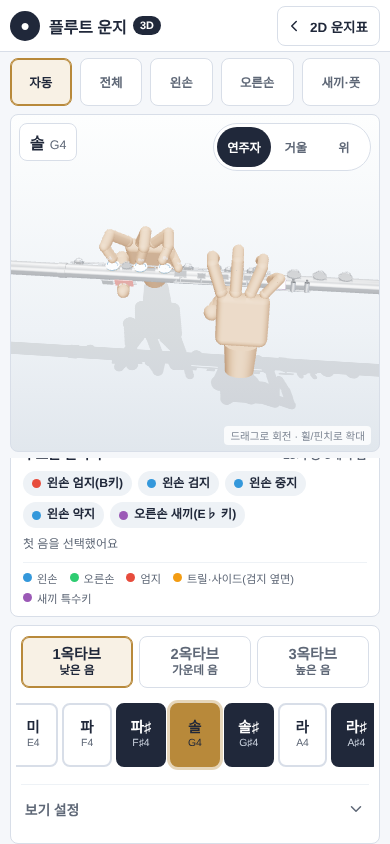
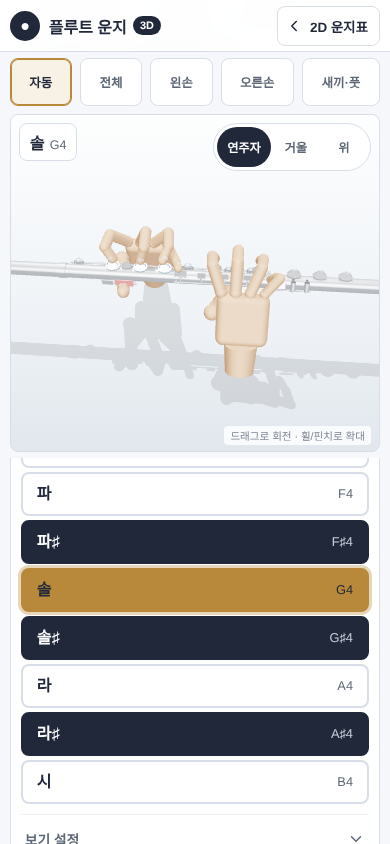
Stack the 3D panel's note buttons in one vertical column
The right-hand panel showed the octave's 12-13 note buttons as a single
horizontally scrolling row. They are now one vertical column, low to
high from top to bottom, one full-width button per note.

- .piano is a column flexbox; .note-btn is a full-width row with the
  Korean solfege name on the left and the English name on the right,
  min-height 44px.
- The list does not scroll on its own: the page is the only scroll
  area. That removes centerActiveKey(), its ResizeObserver and the
  overflow/scroll-padding tricks the horizontal row needed.
- Desktop grid: the third row is 1fr, so a panel that is taller than the
  left column no longer pushes the 3D view and the finger summary apart.
- docs/3d-view.md and QA screenshots 08/09 are updated.

Verified: 805 layout checks over 11 viewports (320-1440 px wide, incl.
short windows and a landscape phone), the 392 shortcut checks, axe (no
new violations) and qa/check-3d-data.mjs.

Claude-Session: https://claude.ai/code/session_01AGBZvwWJVfQoH8o65SEwUy

Changed region(s): [[0.0308, 0.5237, 0.9846, 1.0], [0.8923, 0.9858, 0.9231, 1.0], [0.8, 0.5237, 0.8308, 0.5545]]

diff --git a/3d.html b/3d.html
@@ -152,7 +152,7 @@ main#app-main{width:min(100%,1280px);margin:0 auto;padding:8px 10px 24px;display
 .legend span{display:inline-flex;align-items:center;gap:5px}
 .legend i{width:9px;height:9px;border-radius:50%;display:inline-block}
 
-/* 오른쪽 패널 — 한 장의 카드: ① 옥타브 고르기 ② 그 옥타브 건반 한 줄(가로 배열) ③ 접어 둔 「보기 설정」 */
+/* 오른쪽 패널 — 한 장의 카드: ① 옥타브 고르기 ② 그 옥타브 계이름 버튼(세로 1열) ③ 접어 둔 「보기 설정」 */
 #side-panel{padding:10px;background:var(--surface);border:1px solid var(--line);border-radius:var(--radius)}
 #selector3d{display:grid;gap:10px;width:100%;max-width:480px;margin:0 auto}
 .octave-switch{display:grid;grid-template-columns:repeat(3,minmax(0,1fr));gap:6px}
@@ -163,22 +163,18 @@ main#app-main{width:min(100%,1280px);margin:0 auto;padding:8px 10px 24px;display
 .octave-btn b{font-size:.92rem;font-weight:800}
 .octave-btn span{font-size:.72rem;font-weight:650}
 .octave-btn[aria-pressed="true"]{color:var(--ink);border-color:var(--accent);background:#f8f1e5;box-shadow:inset 0 0 0 1px var(--accent)}
-/* 건반: 낮은 음 → 높은 음 순서로 한 줄(1열 횡대). 흰 칸 = 온음, 검은 칸 = 반음(♯).
-   12~13개를 한 화면에 다 넣으면 칸이 26px쯤으로 좁아져 누르기 어려우므로, 칸 폭은 터치하기 좋게(44px 이상) 두고 옆으로 밀어 본다.
-   한 화면에 6칸 반이 보이도록 폭을 잡아서 일곱 번째 칸이 반쯤 잘려 보이게 — "더 있다"는 표시. 고른 음은 centerActiveKey()가 늘 가운데로 가져온다.
-   padding은 고른 칸의 빛(3px)·포커스 링(3px+2px)이 스크롤 영역에 잘리지 않게 하는 여백이고, 좌우 -5px 여백으로 위쪽 옥타브 버튼과 가장자리를 맞춘다. */
-.piano{
-  position:relative;display:flex;gap:4px;margin:0 -5px;padding:5px 5px 7px;scroll-padding-inline:10px;
-  overflow-x:auto;overscroll-behavior-x:contain;scrollbar-width:thin;scrollbar-color:#b9c1cd transparent
-}
+/* 계이름 버튼: 낮은 음 → 높은 음 순서로 세로 한 줄(1열 종대). 흰 버튼 = 온음, 검은 버튼 = 반음(♯).
+   버튼은 손가락으로 누르기 좋게 높이 44px 이상, 폭은 패널 가득. 12~13개를 쌓은 목록은 패널을 길게 만들 뿐, 목록 안에서 따로 스크롤하지 않는다
+   (스크롤은 페이지 하나뿐이라 휠·터치가 헷갈리지 않고, 모바일에서는 3D 화면이 위에 고정된 채 목록이 그 아래로 지나간다). */
+.piano{display:flex;flex-direction:column;gap:4px}
 .piano[hidden]{display:none}
 .note-btn{
-  flex:0 0 clamp(44px,calc((100% - 24px) / 6.5),72px);min-height:64px;padding:3px 2px;border:2px solid var(--line);border-radius:var(--radius);
-  background:#fff;color:var(--ink);cursor:pointer;display:flex;flex-direction:column;align-items:center;justify-content:center;line-height:1.05
+  min-height:44px;padding:0 14px;border:2px solid var(--line);border-radius:var(--radius);
+  background:#fff;color:var(--ink);cursor:pointer;display:flex;align-items:center;justify-content:space-between;gap:10px;line-height:1.1;text-align:left
 }
 .note-btn.black{background:var(--ink);border-color:var(--ink);color:#fff}
-.note-btn .nb-ko{font-size:.91rem;font-weight:850}
-.note-btn .nb-en{font-size:.65rem;color:var(--muted);margin-top:3px;white-space:nowrap}
+.note-btn .nb-ko{font-size:1rem;font-weight:850}
+.note-btn .nb-en{font-size:.8rem;color:var(--muted);white-space:nowrap}
 .note-btn.black .nb-en{color:#c7cfdb}
 .note-btn.active,.note-btn.black.active{background:var(--accent);border-color:var(--accent);color:var(--ink);box-shadow:0 0 0 3px rgba(184,137,58,.35)}
 .note-btn.active .nb-en,.note-btn.black.active .nb-en{color:inherit}
@@ -220,8 +216,9 @@ footer{padding:6px 12px 22px;text-align:center;color:#7e8794;font-size:.72rem;li
 }
 @media (min-width:1024px){
   #app-topbar{padding:0 max(20px,calc((100vw - 1240px)/2))}
+  /* 오른쪽 패널(세로 목록)이 왼쪽 열보다 길어도, 남는 높이는 맨 아래 줄(1fr)이 받는다 → 3D 화면과 손가락 요약 사이가 벌어지지 않는다 */
   main#app-main{
-    display:grid;grid-template-columns:minmax(0,1fr) 360px;align-items:start;
+    display:grid;grid-template-columns:minmax(0,1fr) 360px;grid-template-rows:auto auto 1fr;align-items:start;
     grid-template-areas:"summary summary" "viewer panel" "fingers panel"
   }
   #note-info{grid-area:summary}
@@ -1021,9 +1018,8 @@ function renderFingerSummary(ks, on, off, first){
     </div>`;
 }
 
-/* 음 고르기: 옥타브 3칸 + 고른 옥타브의 건반 한 줄만 보여 준다(나머지 둘은 hidden).
-   건반은 낮은 음 → 높은 음 순서로 한 줄에 늘어놓는다(반음 단위, 검은 칸 = ♯). 한 줄이 패널보다 길어서 옆으로 밀어 볼 수 있고,
-   고른 음은 selectNote()가 centerActiveKey()로 늘 가운데에 가져다 놓는다. */
+/* 음 고르기: 옥타브 3칸 + 고른 옥타브의 계이름 버튼 목록만 보여 준다(나머지 둘은 hidden).
+   버튼은 낮은 음 → 높은 음 순서로 세로 한 줄에 쌓는다(반음 단위, 검은 버튼 = ♯). */
 function buildSelector(){
   const octaveSwitch = `<div class="octave-switch" role="group" aria-label="옥타브">${[1, 2, 3].map(oct =>
     `<button class="octave-btn" data-octave="${oct}" aria-pressed="false"><b>${oct}옥타브</b><span>${OCT_LABELS[oct]}</span></button>`).join("")}</div>`;
@@ -1038,29 +1034,11 @@ function buildSelector(){
   $("selector3d").innerHTML = octaveSwitch + pianos;
 }
 
-/* 고른 옥타브의 건반 줄을 펼친다. 다른 옥타브가 새로 펼쳐졌으면 true */
+/* 고른 옥타브의 계이름 버튼 목록만 펼친다 */
 function showOctave(oct){
-  let opened = false;
-  document.querySelectorAll("#selector3d [data-piano]").forEach(piano => {
-    const hide = Number(piano.dataset.piano) !== oct;
-    if (piano.hidden !== hide){ piano.hidden = hide; if (!hide) opened = true; }
-  });
+  document.querySelectorAll("#selector3d [data-piano]").forEach(piano => { piano.hidden = Number(piano.dataset.piano) !== oct; });
   document.querySelectorAll("#selector3d .octave-btn").forEach(button =>
     button.setAttribute("aria-pressed", String(Number(button.dataset.octave) === oct)));
-  return opened;
-}
-
-/* 고른 음(.active)이 건반 줄의 가운데 오도록 줄만 옆으로 민다. scrollIntoView는 페이지까지 움직일 수 있어서 쓰지 않는다.
-   처음 그릴 때·옥타브를 바꿀 때·'동작 줄이기' 설정에서는 애니메이션 없이 바로 옮긴다. */
-function centerActiveKey(instant){
-  const piano = document.querySelector("#selector3d .piano:not([hidden])");
-  const key = piano && piano.querySelector(".note-btn.active");
-  if (!key) return;
-  const room = piano.scrollWidth - piano.clientWidth;
-  if (room <= 0) return;
-  const left = Math.min(room, Math.max(0, key.offsetLeft + key.offsetWidth / 2 - piano.clientWidth / 2));
-  const calm = instant || window.matchMedia("(prefers-reduced-motion: reduce)").matches;
-  piano.scrollTo({ left, behavior: calm ? "auto" : "smooth" });
 }
 
 function stateQuery(){
@@ -1097,8 +1075,7 @@ function selectNote(noteId, opts = {}){
     button.classList.toggle("active", active);
     button.setAttribute("aria-pressed", String(active));
   });
-  const octaveOpened = showOctave(note.oct);
-  centerActiveKey(first || octaveOpened);
+  showOctave(note.oct);
   $("stage-label").innerHTML = `<b>${note.ko}</b>${note.name}${altIndex >= 0 ? ` · ${note.alt[altIndex].name}` : ""}`;
   const link2d = `./?${stateQuery()}&mode=learn`;
   $("back-2d").setAttribute("href", link2d);
@@ -1253,14 +1230,7 @@ function webgl2Available(){
 buildSelector();
 bindUi();
 const start = initialSelection();
-showOctave(noteById(start.id).oct);   // 3D를 불러오는 동안에도 처음부터 맞는 옥타브 건반이 보이게
-if ("ResizeObserver" in window){      // 화면 폭이 바뀌면(기기 회전·창 크기) 칸 폭도 바뀌므로 고른 음을 다시 가운데로
-  let lastWidth = 0;
-  new ResizeObserver(entries => {
-    const width = Math.round(entries[0].contentRect.width);
-    if (width !== lastWidth){ lastWidth = width; centerActiveKey(true); }
-  }).observe($("selector3d"));
-}
+showOctave(noteById(start.id).oct);   // 3D를 불러오는 동안에도 처음부터 맞는 옥타브 계이름 버튼이 보이게
 
 if (!webgl2Available()){
   window.__flute3d.failed = true;

diff --git a/docs/3d-view.md b/docs/3d-view.md
@@ -53,14 +53,14 @@ node qa/check-3d-data.mjs
 
 처음 버전은 음 버튼 37개와 표시 옵션 4개가 한꺼번에 보여서 복잡했습니다. 지금은 한 장의 카드로 줄였습니다.
 
-- **옥타브 3칸 + 건반 한 줄**: 「1옥타브 낮은 음 / 2옥타브 가운데 음 / 3옥타브 높은 음」 중 고른 옥타브의 건반만 보입니다(나머지는 `hidden`이라 탭 순서에서도 빠집니다).
-- **건반은 1열 횡대(한 줄)**: 낮은 음 → 높은 음 순서로 반음 단위 12칸(3옥타브는 C7까지 13칸)을 한 줄에 늘어놓습니다. 흰 칸은 온음, 검은 칸은 반음(♯)입니다. 12칸을 한 화면에 다 넣으면 칸 폭이 26px쯤으로 좁아져 손가락으로 누르기 어려워서, 칸 폭은 44px 이상(패널 폭의 1/6.5)으로 두고 줄을 옆으로 밀어 봅니다. 한 화면에 6칸 반이 보여서 가장자리 칸이 반쯤 잘려 보이는 것이 "더 있다"는 표시입니다.
-- **고른 음은 늘 가운데**: 음을 고르거나(탭 · ←/→ · 이전/다음 · 자동 재생) 화면 폭이 바뀌면 `centerActiveKey()`가 그 칸을 줄 가운데로 가져옵니다(줄 양 끝에서는 끝까지만). 같은 옥타브 안에서는 부드럽게, 옥타브를 바꿀 때 · 처음 열 때 · 「동작 줄이기」 설정에서는 바로 옮기고, 직접 밀어 둔 위치는 음을 바꾸기 전까지 그대로 둡니다. Tab으로 건반을 지날 때는 브라우저가 그 칸이 보이게 줄을 움직이며(`scroll-padding`), 포커스 링이 잘리지 않습니다.
-- **옥타브 버튼 = 지금 음을 같은 계이름으로 옮김**: D♯5에서 「3옥타브」를 누르면 D♯6이 됩니다(↑/↓ 키와 같은 동작). 그래서 건반에는 항상 선택한 음이 보입니다. 키보드(숫자 단축키 · ←/→/↑/↓), 이전/다음 버튼, 자동 재생으로 음이 바뀌어도 건반이 그 옥타브로 따라갑니다.
+- **옥타브 3칸 + 계이름 버튼 목록**: 「1옥타브 낮은 음 / 2옥타브 가운데 음 / 3옥타브 높은 음」 중 고른 옥타브의 계이름 버튼만 보입니다(나머지는 `hidden`이라 탭 순서에서도 빠집니다).
+- **계이름 버튼은 1열 종대(세로 한 줄)**: 낮은 음 → 높은 음 순서로 반음 단위 12개(3옥타브는 C7까지 13개)를 위에서 아래로 쌓습니다. 흰 버튼은 온음, 검은 버튼은 반음(♯)이고, 왼쪽에 한글 계이름 · 오른쪽에 영문 음이름이 놓입니다. 버튼은 폭이 패널 가득, 높이가 44px 이상이라 손가락으로 누르기 좋습니다. 데스크톱(1024px 이상)에서는 패널이 오른쪽 열에 `position: sticky`로 놓이는데, 세로 목록 때문에 패널이 왼쪽 열보다 길어질 수 있어서 그리드 세 번째 행을 `1fr`로 두었습니다(남는 높이를 맨 아래 행이 받아서 3D 화면과 손가락 요약 사이가 벌어지지 않습니다). 화면이 낮은 노트북에서는 페이지를 조금 내려 아래쪽 버튼과 「보기 설정」을 봅니다. 모바일·태블릿(1024px 미만)에서는 패널이 3D 화면 아래에 이어지고, 화면 높이가 600px 이상이면 3D 화면이 위에 고정된 채 버튼 목록이 그 아래로 지나갑니다.
+- **목록 안에서는 스크롤하지 않음**: 버튼이 모두 펼쳐져 있어서 고른 음을 목록 가운데로 가져오는 코드는 없습니다. 음이 바뀌어도(탭 · 숫자 단축키 · ←/→/↑/↓ · 이전/다음 · 자동 재생) 페이지 스크롤 위치는 그대로이고, 옥타브가 바뀌면 그 옥타브의 목록이 열립니다. 목록에 스크롤 영역이 없어서 포커스 링(3px+2px)과 선택한 버튼의 빛(3px)이 잘리지 않습니다.
+- **옥타브 버튼 = 지금 음을 같은 계이름으로 옮김**: D♯5에서 「3옥타브」를 누르면 D♯6이 됩니다(↑/↓ 키와 같은 동작). 그래서 보이는 목록에는 항상 선택한 음이 있습니다. 키보드(숫자 단축키 · ←/→/↑/↓), 이전/다음 버튼, 자동 재생으로 음이 바뀌어도 목록이 그 옥타브로 따라갑니다.
 - **선택한 음**은 금색(`--accent`) 채움 하나로 표시합니다(예전의 ✓ 배지는 뺐습니다). 강제 색상 모드에서는 3px 윤곽선으로 보입니다.
 - **보기 설정**(손 보이기 · 손 반투명 · 달라진 키 표시 · 천천히 움직이기)은 기본으로 접혀 있고, 펼치면 `role="switch"` 스위치 4개와 키보드 안내가 나옵니다. 기본값은 손 켬 · 반투명 끔 · 달라진 키 켬 · 천천히 끔입니다.
 - **키보드 단축키(2D 앱과 같음)**: 숫자 1~7 = 도~시(C4~B4) · Shift+1~7 = 높은 도~시(C5~B5) · Alt+1~5 = 반음 도♯/레♭ · 레♯/미♭ · 파♯/솔♭ · 솔♯/라♭ · 라♯/시♭(C♯4~A♯4) · Alt+6~0 = 높은 반음(같은 순서, C♯5~A♯5) · ←/→ 반음 · ↑/↓ 옥타브. 숫자는 키보드 위쪽 줄만 씁니다(`event.code` 기준이라 Shift를 눌러 기호가 나와도, 한글 입력 상태여도 같은 키로 인식). 표는 `NOTE_SHORTCUTS` 하나이고 `index.html`에 같은 표가 있으며, `qa/check-3d-data.mjs`(GitHub Actions `data-sync`)가 둘이 같은지 검사합니다. 표에 없는 조합(숫자만 또는 Shift로 누른 8·9·0, Ctrl, Shift+Alt 등)은 브라우저 기본 동작을 막지 않습니다. 단축키는 모두 24개이고, 한 음에 단축키는 하나뿐입니다(`qa/check-3d-data.mjs`가 겹침도 검사).
-- 코드는 `buildSelector()`(건반 생성) · `showOctave()`(옥타브 전환) · `centerActiveKey()`(가운데 맞추기) · `bindUi()`의 `#selector3d` 클릭 처리에 있습니다. 옥타브 1~3(옥타브마다 12~13칸)을 가정하며, 음 범위가 달라져도 건반 줄은 칸 수만큼 그대로 늘어납니다. 칸 폭은 CSS `.note-btn`의 `flex-basis: clamp(44px, (100% − 24px) ÷ 6.5, 72px)`로 정합니다. `.piano`의 padding(5px)은 선택한 칸의 빛(3px)과 포커스 링(3px+2px)이 스크롤 영역에 잘리지 않게 하는 여백이므로 함께 바꾸세요.
+- 코드는 `buildSelector()`(버튼 생성) · `showOctave()`(옥타브 전환) · `bindUi()`의 `#selector3d` 클릭 처리에 있습니다. 옥타브 1~3(옥타브마다 12~13개)을 가정하며, 음 범위가 달라져도 목록은 버튼 수만큼 그대로 길어집니다. 버튼 모양은 CSS `.piano`(`flex-direction: column`)와 `.note-btn`(`min-height: 44px`, 폭은 패널 가득)으로 정합니다.
 
 ## 좌표 · 자세 규약
 
@@ -102,8 +102,8 @@ node qa/check-3d-data.mjs
 - 2D 배우기 모드에서만 「3D로 보기」가 보이고(퀴즈·직접 누르기에서는 숨김), 누르면 같은 음·대체 운지로 열린다.
 - 3D에서 음을 바꾼 뒤 「2D 운지표」로 돌아가면 그 음이 선택돼 있다.
 - 함정 음 D4·D5·D6, 대체 운지 A♯4(3종), 롤러 C4·C♯4, 트릴 B♭6·B6의 손가락이 해당 키에 닿는다.
-- 오른쪽 패널: 옥타브 버튼을 누르면 같은 계이름으로 옮겨지고 건반에 선택한 음(금색)이 보인다. C7은 3옥타브에서만 있다. 「보기 설정」은 접혀 있고 펼치면 스위치 4개가 나온다.
-- 건반은 한 줄이고 손가락으로 옆으로 밀 수 있다(가장자리 칸이 반쯤 잘려 보임). 어떤 음을 골라도 그 칸이 줄 가운데(줄 끝이면 끝)에 오고, 건반 위에서 위아래로 밀면 페이지가 스크롤된다.
+- 오른쪽 패널: 옥타브 버튼을 누르면 같은 계이름으로 옮겨지고 계이름 버튼 목록에 선택한 음(금색)이 보인다. C7은 3옥타브에서만 있다. 「보기 설정」은 접혀 있고 펼치면 스위치 4개가 나온다.
+- 계이름 버튼은 세로 한 줄(1열)로 쌓이고 폭이 모두 같다. 어떤 음을 골라도 그 버튼이 금색으로 채워지고, 목록 안에서는 스크롤되지 않는다(페이지만 스크롤). 모바일에서는 3D 화면이 위에 고정된 채 버튼이 그 아래로 지나가고, 화면 높이가 낮은 노트북에서는 페이지를 조금 내려 아래쪽 버튼과 「보기 설정」을 본다.
 - 키보드 숫자 1~7(도~시) · Shift+1~7(높은 도~시) · Alt+1~5(반음) · Alt+6~0(높은 반음)으로 2D·3D 모두 같은 음이 골라진다(24개). 2D에서는 그 단축키의 탭(낮은 계이름 · 높은 계이름 · 반음)이 펼쳐지고 안내 표의 그 칸이 반짝인다. Windows에서는 Alt를 왼쪽 키로 누른다(오른쪽 Alt는 한/영 키).
 - 앱을 한 번 연 뒤 오프라인에서 2D·3D 화면이 각각 제대로 열린다.
 - WebGL을 끈 브라우저에서 안내 문구와 2D 링크가 나온다.
